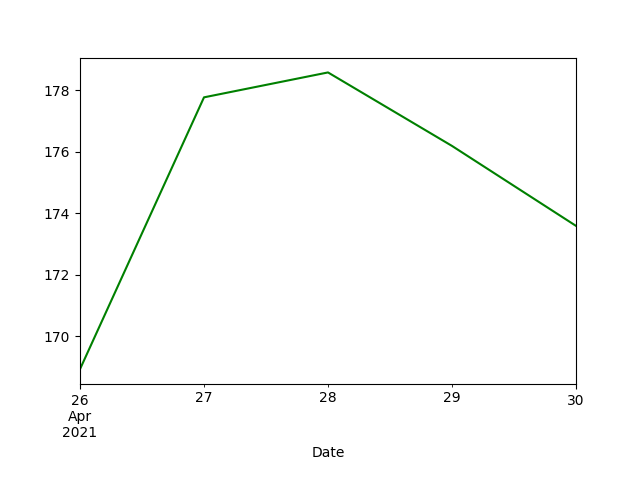
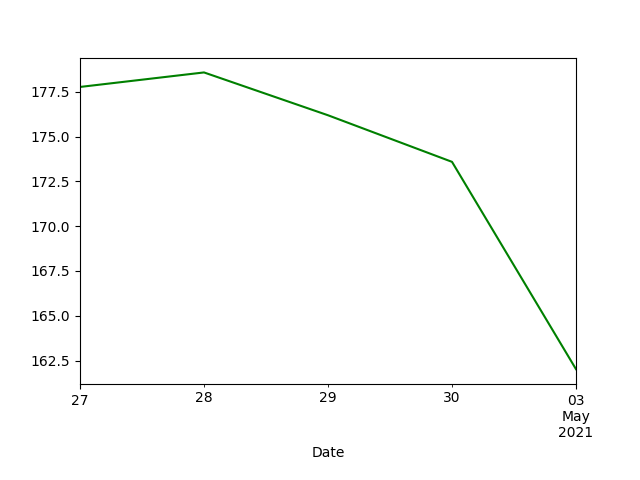
may the thurd.. charge!

diff --git a/NAFABot/NAFA.py b/NAFABot/NAFA.py
@@ -23,21 +23,19 @@ class Ticker:
         self.tickerVolume = ""
         self.tickerAPIData = ""
         self.tickerGraphData = ""
-        self.tickerInstance = yfinance.download(self.tickerSymbol, period="1d")
-
-
+        self.tickerInstance = yfinance.download(self.tickerSymbol, period="1d", prepost=True)
 
     def updateTicker(self):
-        self.tickerInstance = yfinance.download(self.tickerSymbol, period="1d")
-        print(self.tickerInstance)
-        print(self.tickerInstance[datetime.now(pytz.timezone("America/New York")).strftime("%Y-%m-%d")])
+        self.tickerInstance = yfinance.download(self.tickerSymbol, period="1d", prepost=True)
 
-        # self.tickerLastRefresh = tickerAPIData["Meta Data"]["3. Last Refreshed"]
-        # self.tickerOpen = tickerAPIData["Time Series (Daily)"][self.tickerLastRefresh]["1. open"]
-        # self.tickerHigh = tickerAPIData["Time Series (Daily)"][self.tickerLastRefresh]["2. high"]
-        # self.tickerLow = tickerAPIData["Time Series (Daily)"][self.tickerLastRefresh]["3. low"]
-        # self.tickerClose = tickerAPIData["Time Series (Daily)"][self.tickerLastRefresh]["4. close"]
-        # self.tickerVolume = tickerAPIData["Time Series (Daily)"][self.tickerLastRefresh]["6. volume"]
+        self.tickerAPIData = self.tickerInstance.values.tolist()
+        self.tickerLastRefresh = datetime.now(pytz.timezone("America/New_York")).strftime("%Y-%m-%d")
+
+        self.tickerOpen = self.tickerAPIData[0][0]
+        self.tickerClose = self.tickerAPIData[0][1]
+        self.tickerHigh = self.tickerAPIData[0][2]
+        self.tickerLow = self.tickerAPIData[0][3]
+        self.tickerVolume = self.tickerAPIData[0][5]
 
     def plotGraphs(self):
         # Plot for 1 day and save as graph1.png

diff --git a/NAFABot/testController.py b/NAFABot/testController.py
@@ -18,13 +18,6 @@ userOS = UserCredentials(
     os.environ.get("IMGUR_SECRET")
 )
 
-print(os.environ.get("REDDIT_USERNAME") +
-      os.environ.get("REDDIT_PASSWORD") +
-      os.environ.get("REDDIT_CLIENTID") +
-      os.environ.get("REDDIT_SECRET") +
-      os.environ.get("IMGUR_CLIENTID") +
-      os.environ.get("IMGUR_SECRET"))
-
 mainTicker = Ticker(tickerName, userOS)
 redditComment = Comment(tickerName, userOS)
 
@@ -52,9 +45,10 @@ def marketJob():
     redditComment.addLine(datetime.now(pytz.timezone("America/New_York")).strftime("%m-%d-%Y %I:%M:%S %p"))
     redditComment.addLine("$" + mainTicker.tickerSymbol)
     redditComment.addLine("For Date: " + mainTicker.tickerLastRefresh)
-    redditComment.addLine("Close: $" + mainTicker.tickerClose)
-    redditComment.addLine("Open: $" + mainTicker.tickerOpen)
-    redditComment.addLine("Low/High: $" + mainTicker.tickerLow + "/$" + mainTicker.tickerHigh)
+    redditComment.addLine("Close: $" + str(mainTicker.tickerClose))
+    redditComment.addLine("Open: $" + str(mainTicker.tickerOpen))
+    redditComment.addLine("Low / High: $" + format(float(mainTicker.tickerLow), '{.4f}') + " / $" +
+                          format(float(mainTicker.tickerHigh), '{.4f}'))
     redditComment.addLine("Volume:" + "{:,}".format(int(mainTicker.tickerVolume)))
 
     mainTicker.plotGraphs()
@@ -65,6 +59,7 @@ def marketJob():
     print(redditComment.formattedText)
 
     redditComment.post()
+
 
 if __name__ == "__main__":
 

diff --git a/NAFABot/NAFAUser.py b/NAFABot/NAFAUser.py
@@ -2,12 +2,11 @@ class UserCredentials:
 
 
 
-    def __init__(self, userName, passWord, clientID, clientSecret, userAPIKey, imgurID, imgurSecret):
+    def __init__(self, userName, passWord, clientID, clientSecret, imgurID, imgurSecret):
         self.userName = userName
         self.passWord = passWord
         self.clientID = clientID
         self.clientSecret = clientSecret
-        self.userAPIKey = userAPIKey
         self.imgurID = imgurID
         self.imgurSecret = imgurSecret
 
@@ -44,5 +43,3 @@ class UserCredentials:
     def getImgurSecret(self):
         return self.imgurSecret
 
-    def printData(self):
-        print(self.userName + "\n" + self.passWord + "\n" + self.clientID + "\n" + self.clientSecret)
